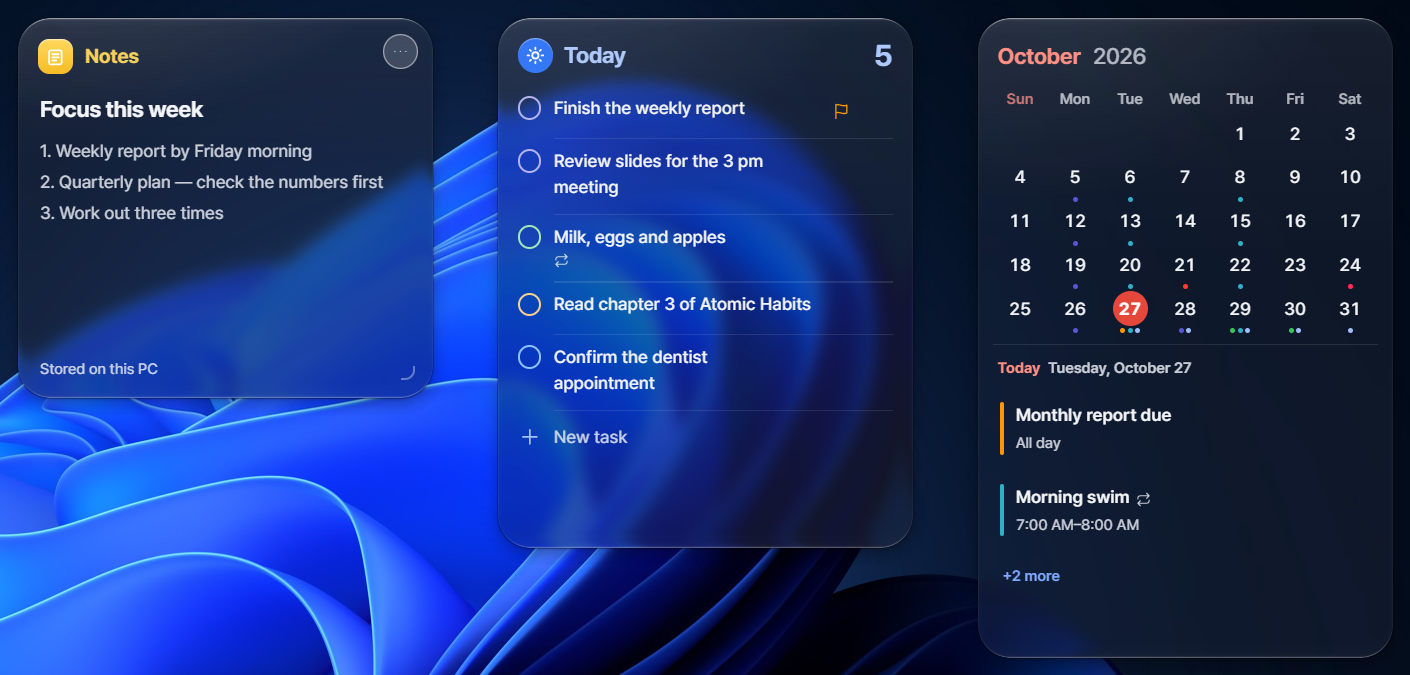
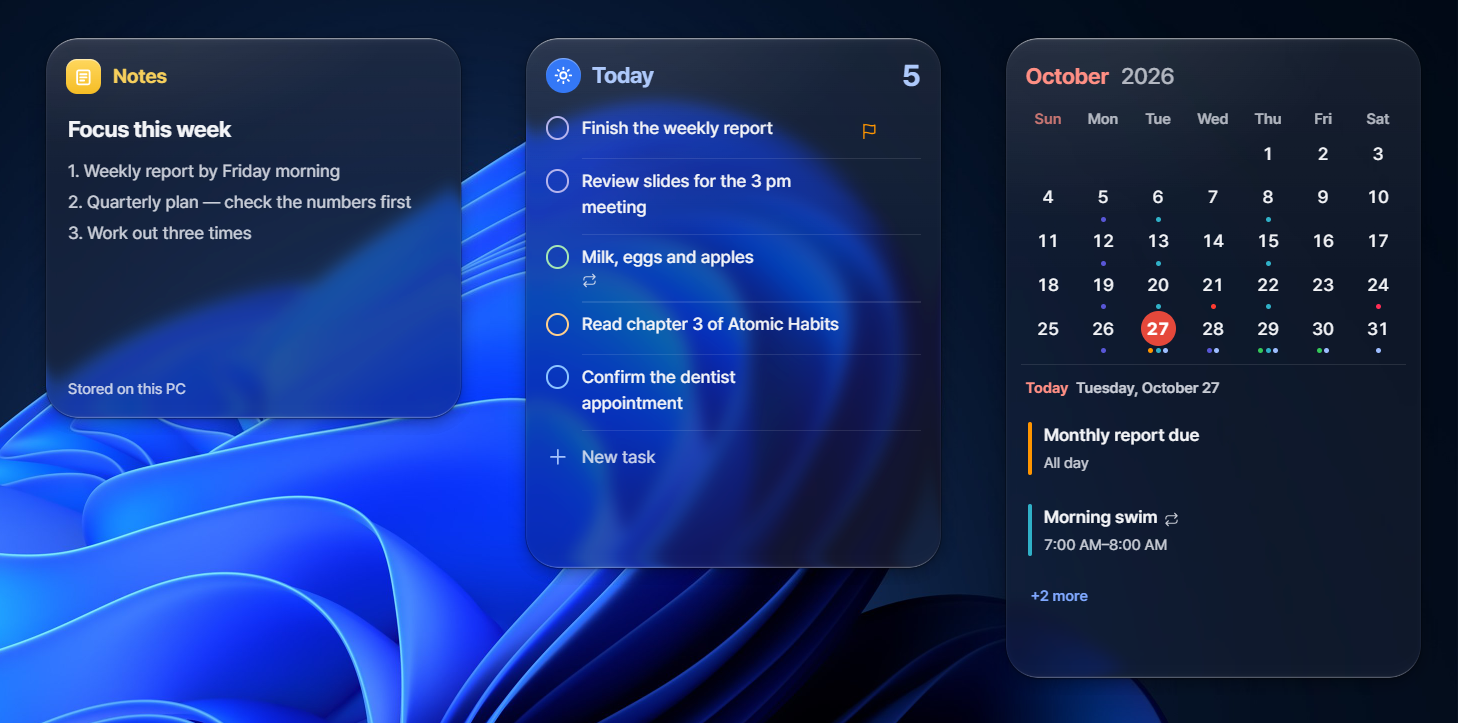
Show widgets on the desktop in the Dayboard demo and give the widget picture room

diff --git a/index.html b/index.html
@@ -79,7 +79,7 @@
     <p class="fine">무료 · Windows x64 · 오픈 소스(MIT)</p>
   </header>
 
-  <figure><img src="images/demo.gif" alt="Dayboard 사용 모습: 할 일 빠른 추가와 완료, 월 달력에서 일정 끌어 옮기기, 주 달력에서 늘리기, 일정 카드, 메모" width="960" height="617"></figure>
+  <figure><img src="images/demo.gif" alt="Dayboard 사용 모습: 할 일 빠른 추가와 완료, 월 달력에서 일정 끌어 옮기기, 주 달력에서 늘리기, 일정 카드, 메모, 바탕화면에 위젯 놓기와 유리 효과 조절" width="960" height="617"></figure>
 
   <section class="why">
     <h2>만든 이유</h2>
@@ -99,7 +99,7 @@
     <figure><img src="images/notes.png" alt="Dayboard 메모 화면" width="2478" height="1640" loading="lazy"><figcaption>메모</figcaption></figure>
     <figure><img src="images/tasks-today-dark.png" alt="Dayboard 다크 테마" width="2478" height="1640" loading="lazy"><figcaption>다크 테마</figcaption></figure>
   </div>
-  <figure><img src="images/widgets.png" alt="바탕화면의 메모·오늘·달력 위젯" width="1410" height="675" loading="lazy"><figcaption>바탕화면 위젯</figcaption></figure>
+  <figure><img src="images/widgets.png" alt="바탕화면의 메모·오늘·달력 위젯" width="1465" height="723" loading="lazy"><figcaption>바탕화면 위젯</figcaption></figure>
   <p class="note">화면의 할 일·일정·메모는 예시 데이터예요.</p>
 
   <section class="box">

diff --git a/en/index.html b/en/index.html
@@ -79,7 +79,7 @@
     <p class="fine">Free · Windows x64 · Open source (MIT)</p>
   </header>
 
-  <figure><img src="../images/en/demo.gif" alt="Dayboard in action: adding and completing a task, dragging an event in the month view, stretching one in the week view, an event card, and notes" width="960" height="617"></figure>
+  <figure><img src="../images/en/demo.gif" alt="Dayboard in action: adding and completing a task, dragging an event in the month view, stretching one in the week view, an event card, notes, and a widget put on the desktop with its glass adjusted" width="960" height="617"></figure>
 
   <section class="why">
     <h2>Why Dayboard</h2>
@@ -99,7 +99,7 @@
     <figure><img src="../images/en/notes.png" alt="Dayboard notes" width="2478" height="1640" loading="lazy"><figcaption>Notes</figcaption></figure>
     <figure><img src="../images/en/tasks-today-dark.png" alt="Dayboard in the dark theme" width="2478" height="1640" loading="lazy"><figcaption>Dark theme</figcaption></figure>
   </div>
-  <figure><img src="../images/en/widgets.png" alt="Notes, Today and calendar widgets on the desktop" width="1410" height="675" loading="lazy"><figcaption>Desktop widgets</figcaption></figure>
+  <figure><img src="../images/en/widgets.png" alt="Notes, Today and calendar widgets on the desktop" width="1465" height="723" loading="lazy"><figcaption>Desktop widgets</figcaption></figure>
   <p class="note">Screenshots use sample data.</p>
 
   <section class="box">
